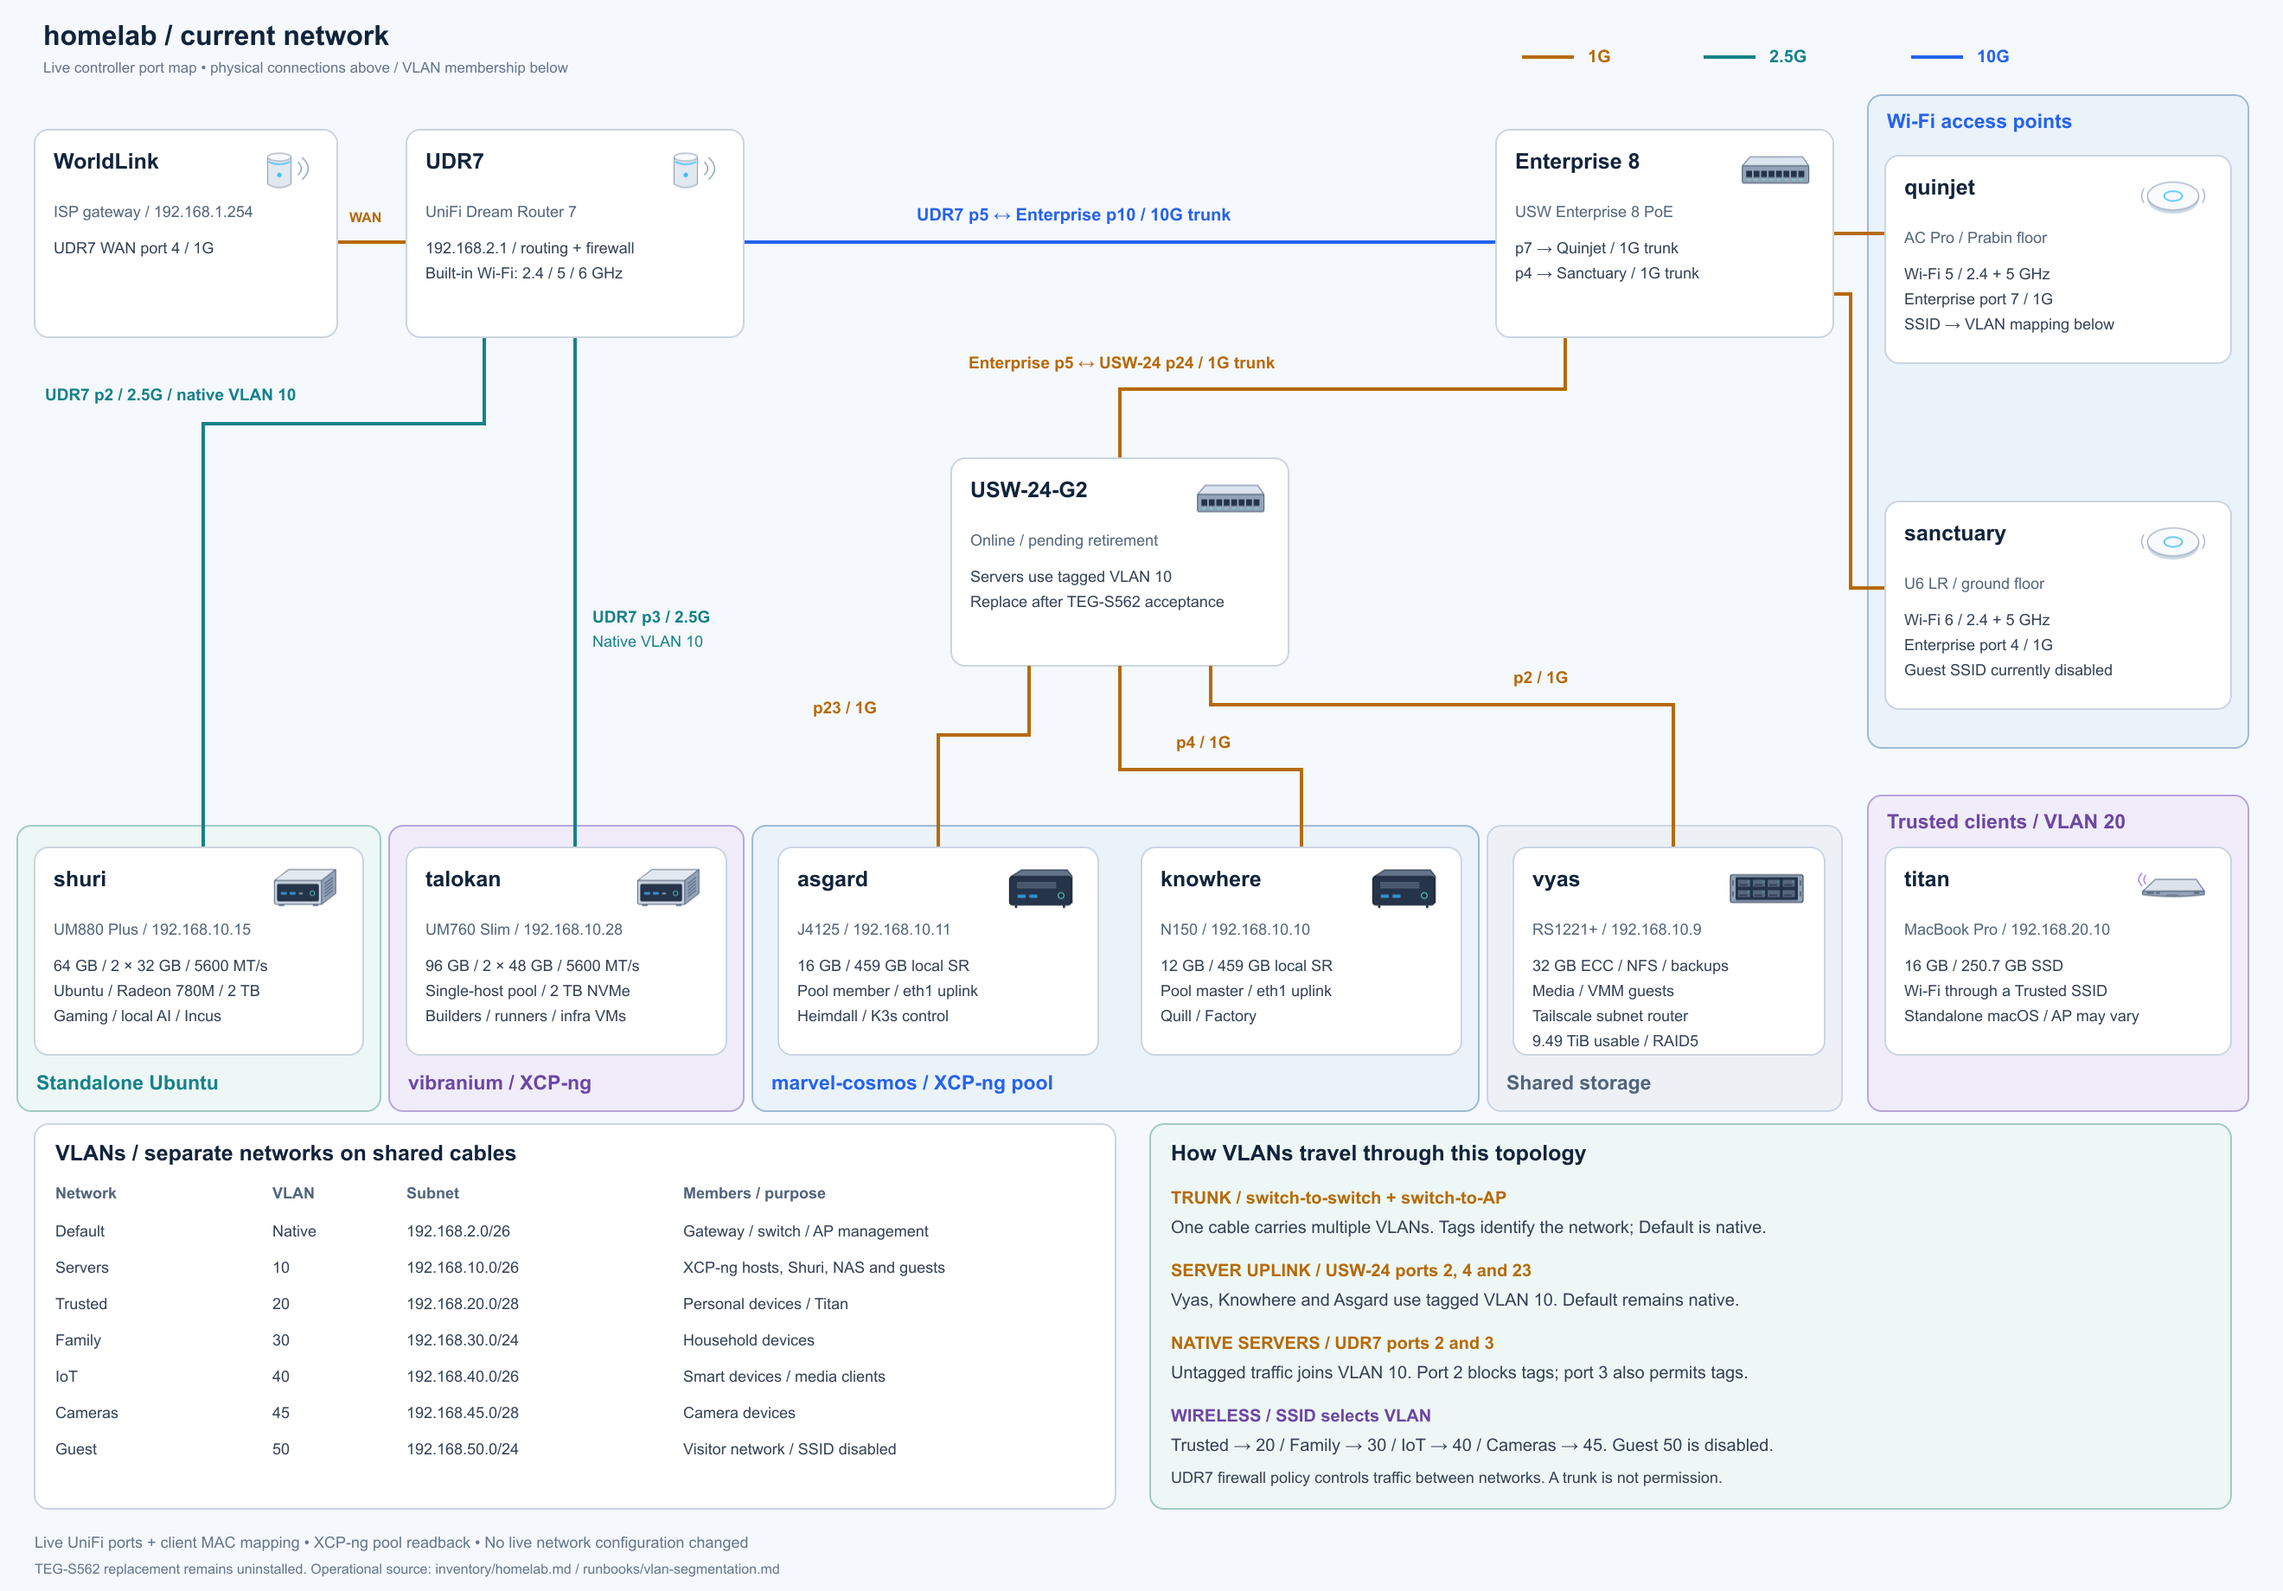
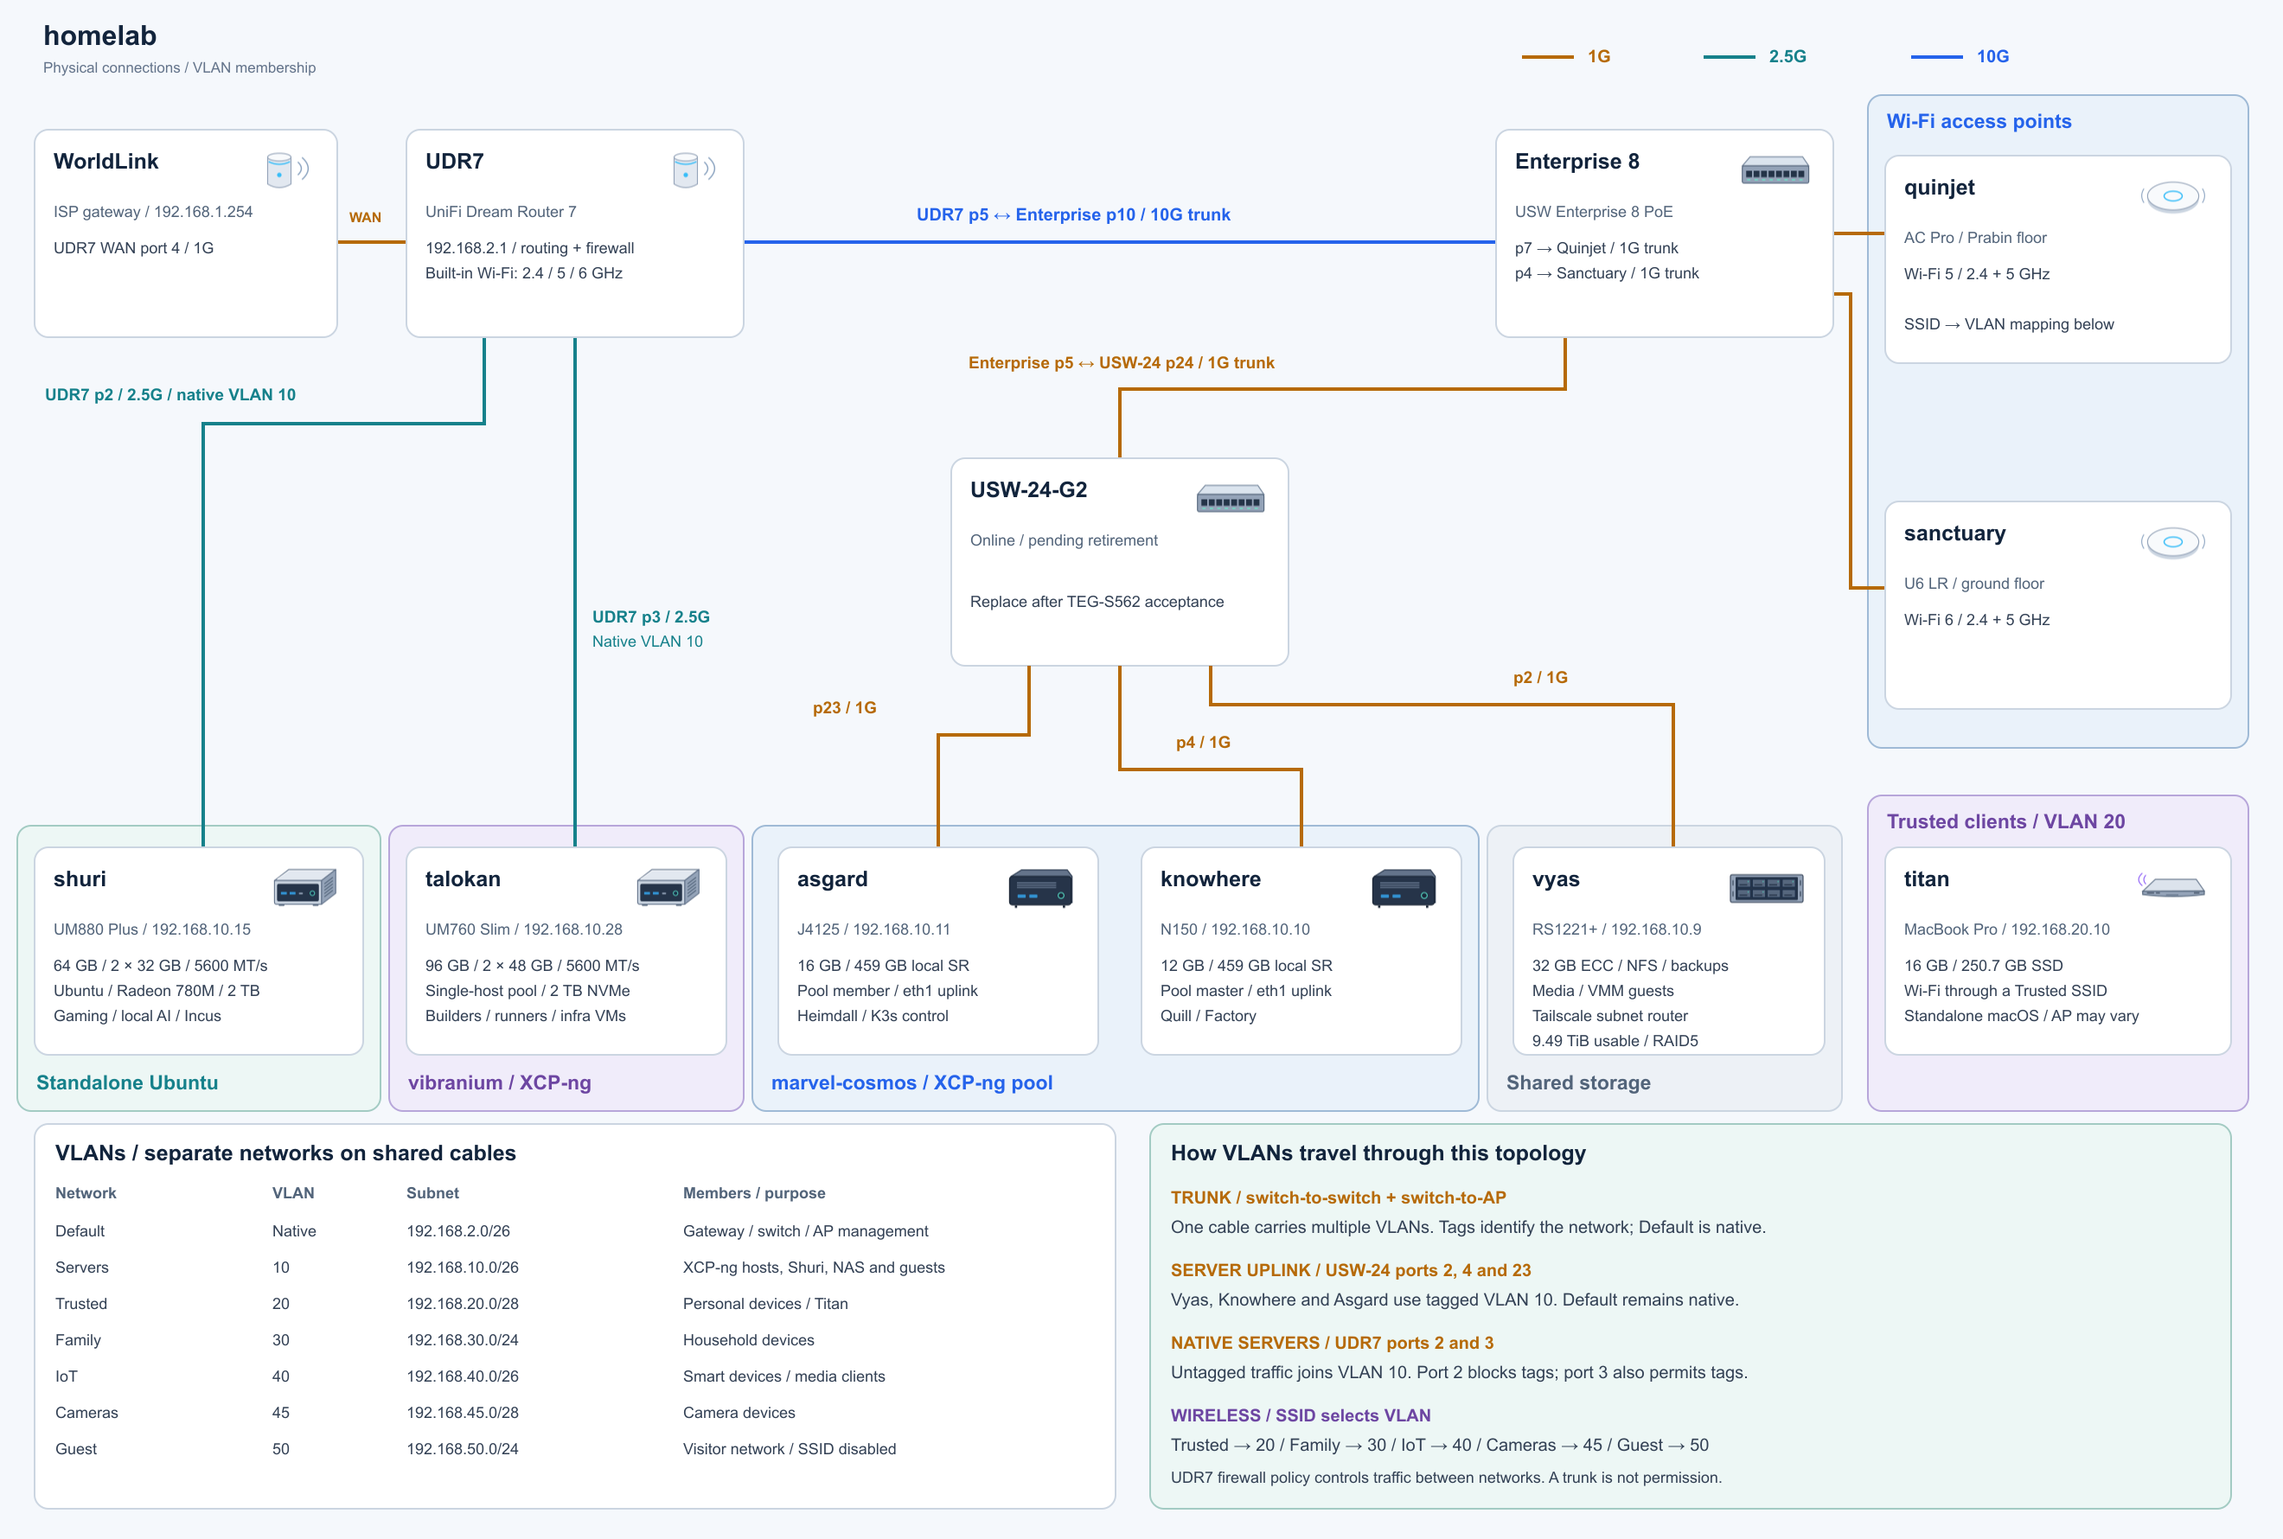
Refresh homelab publication diagrams

diff --git a/public/images/blog/building-my-homelab/README.md b/public/images/blog/building-my-homelab/README.md
@@ -18,7 +18,7 @@ preserved. The
 the local `assets/` illustrations copied from the homelab diagram assets.
 Edit the renderer for layout and content changes, then run
 `node scripts/images/render-homelab-upgrade.mjs` before regenerating its PNG.
-The upgrade uses the current diagram's 2640 × 1840 canvas, typography, compact
+The upgrade uses the current diagram's 2640 × 1780 canvas, typography, compact
 device cards and VLAN table. Shuri stays standalone; Talokan's `vibranium`
 group sits beside `marvel-cosmos`, containing Asgard and Knowhere. Compute and
 Vyas sit below the gateway and switches; wireless equipment sits on the right.
@@ -32,7 +32,7 @@ Enterprise port 7 serves Quinjet and port 4 serves Sanctuary; replacement
 connections use endpoint and speed labels without assigning new port numbers.
 
 Link colors are blue for 10G, teal for 2.5G and amber for 1G.
-Both AP uplinks use amber with a `1G max` label, based on the official
+Both AP uplinks use amber with a `1G max` label on the Enterprise card, based on the official
 [U6-LR specifications](https://techspecs.ui.com/unifi/wifi/u6-lr) and
 [AC Pro specifications](https://techspecs.ui.com/unifi/wifi/uap-ac-pro).
 These are hardware limits, not fresh live negotiated-speed checks.
